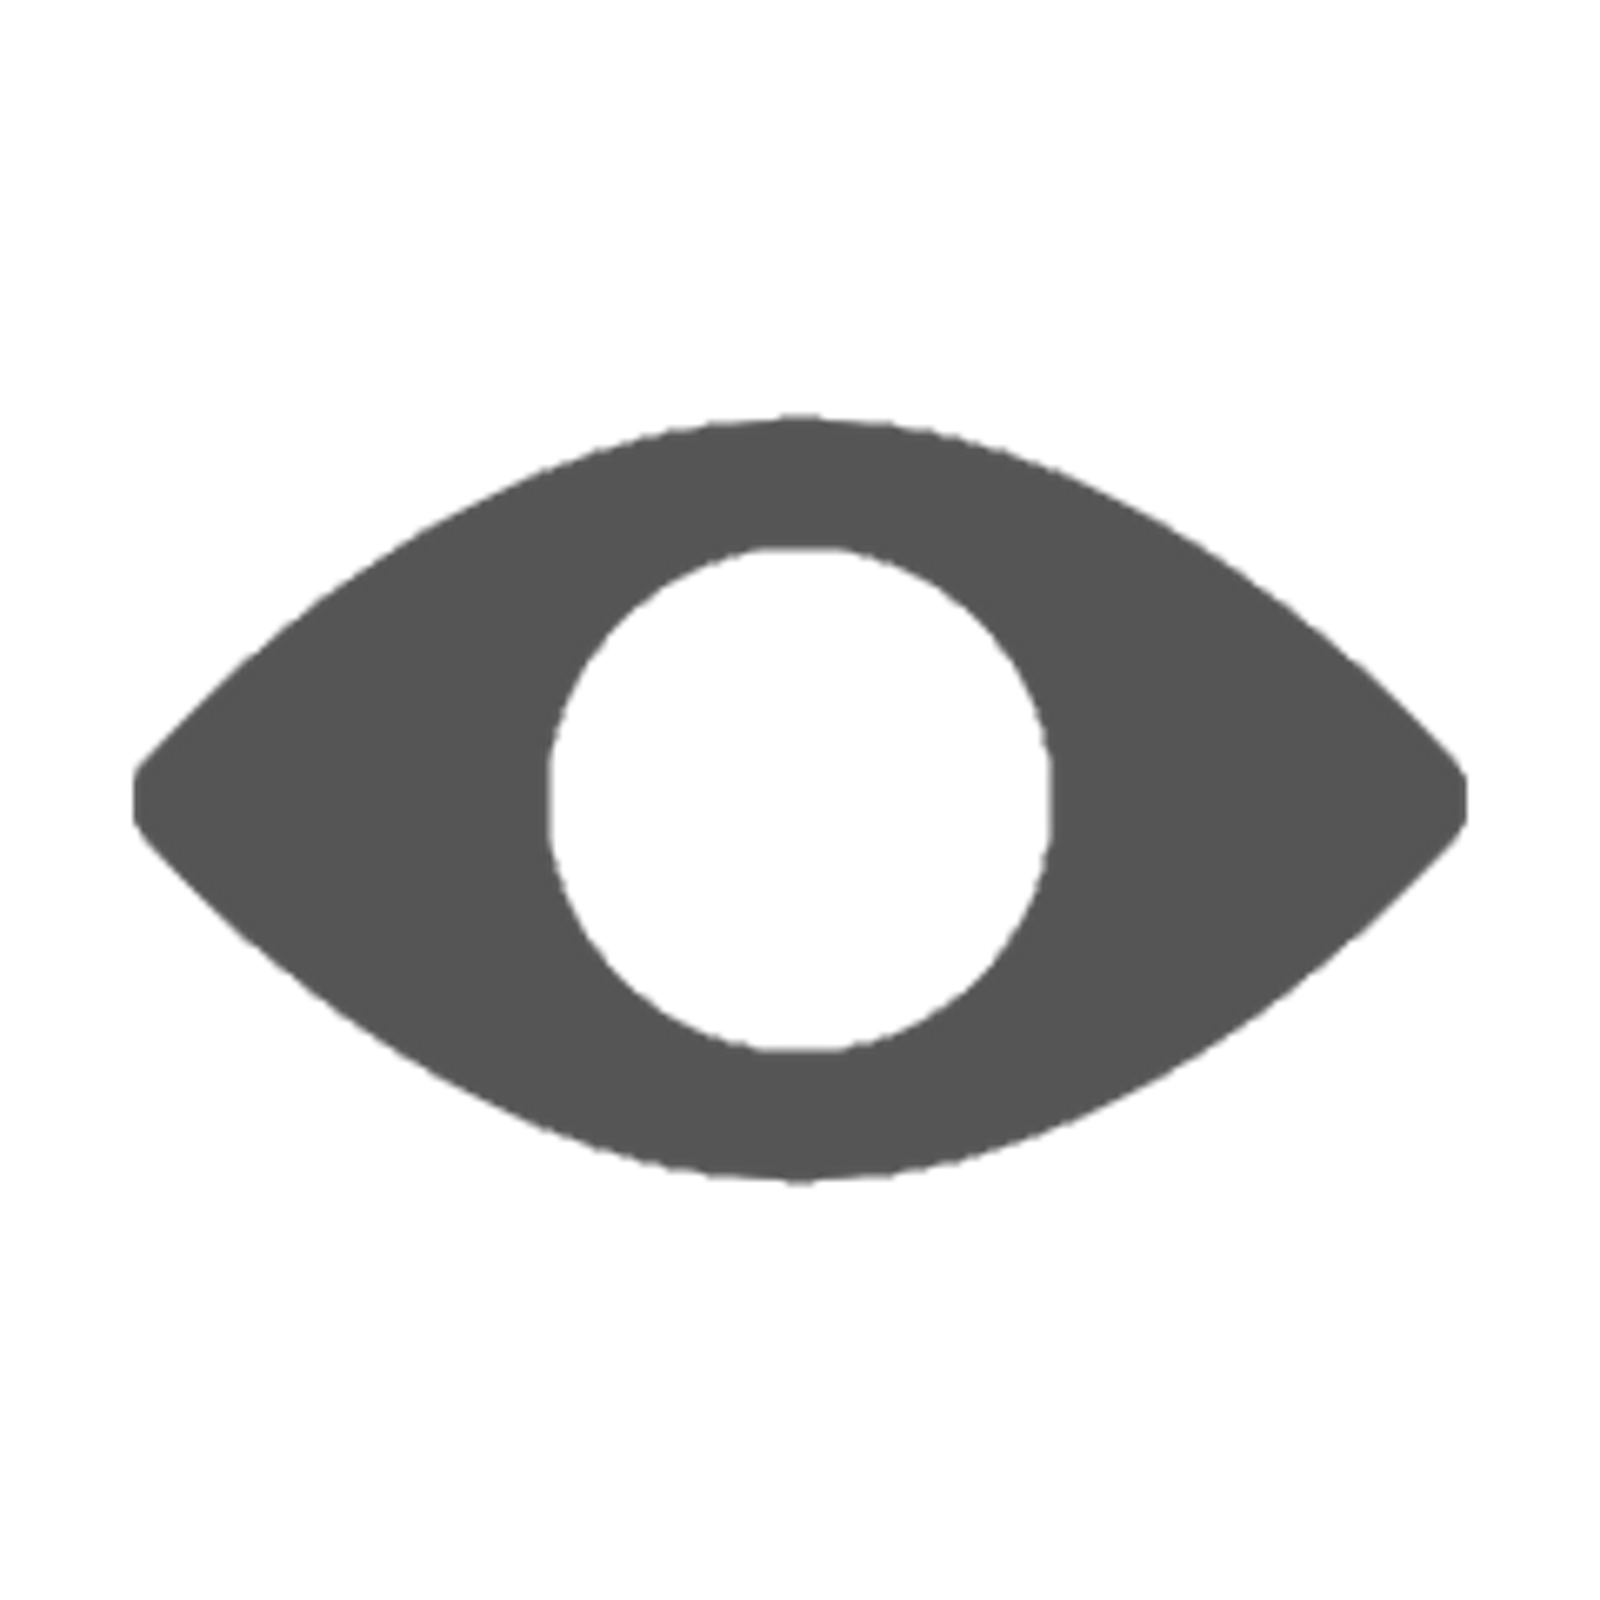
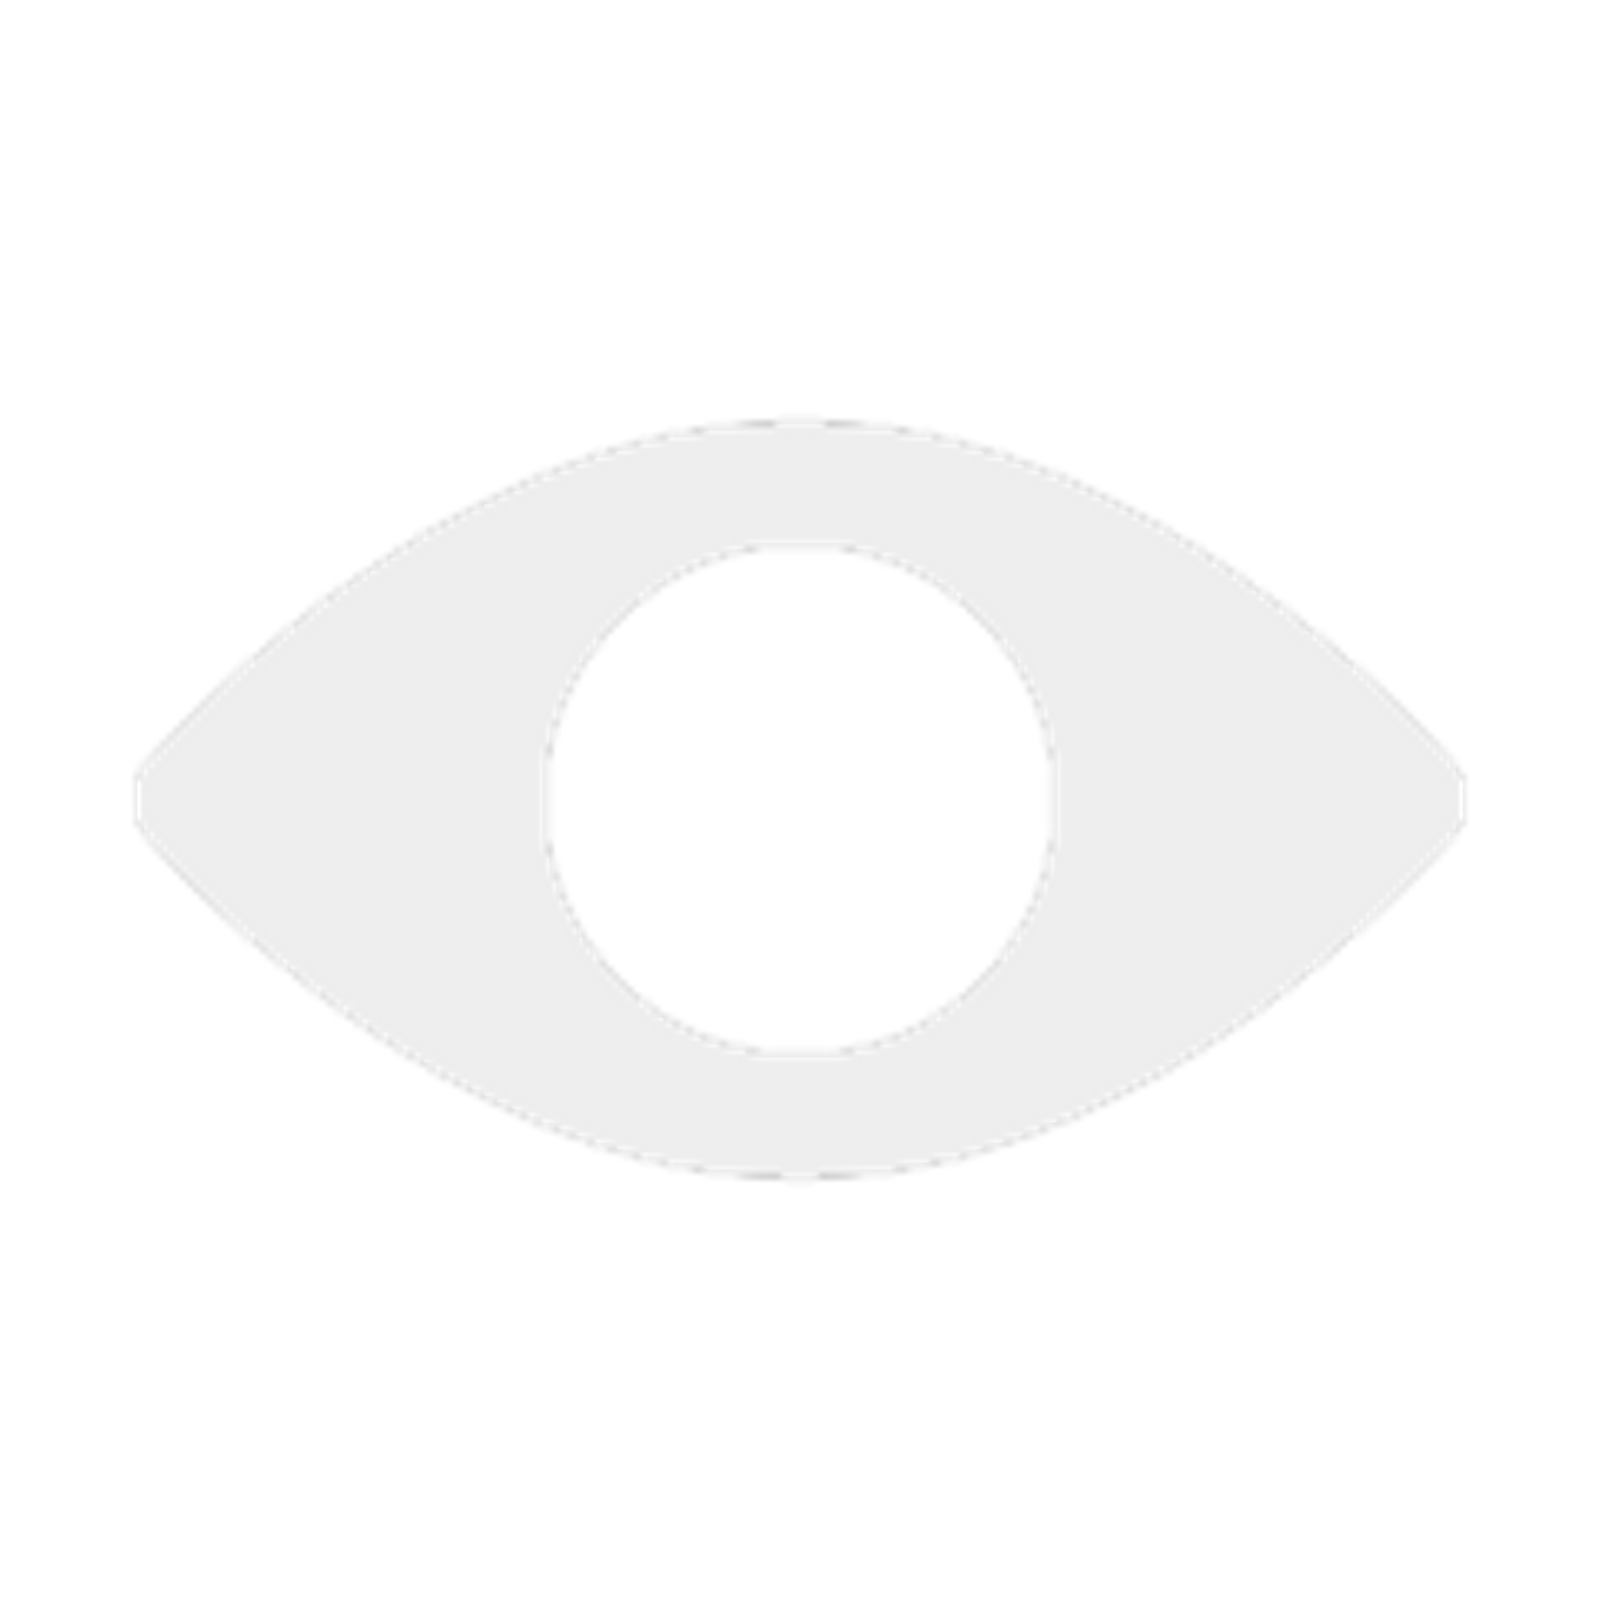
Updated values

Changed region(s): [[0.0625, 0.25, 0.9375, 0.75]]

diff --git a/splash.html b/splash.html
@@ -11,9 +11,9 @@
 </head>
 
 <script>
-    let bkgColor = '#555555';
-    let cirColor = '#3DC1D9';
-    let triColor = '#EEEEEE';
+    let bkgColor = '#EEEEEE';
+    let cirColor = '#66D3E4';
+    let triColor = '#3DC1D9';
     let growRate = 1;
     let eyeImg;
 
@@ -41,7 +41,7 @@
         triangle(width / 2, offsetY, 0, height + offsetY, width, height + offsetY);
         rect(0, height + offsetY, width, 2 * height + offsetY);
         //
-        var size = width * 0.6;
+        size = width * 0.5;
         image(eyeImg, (width - size) / 2, (height - size) / 2, size, size);
         growRate += 0.012;
     }

diff --git a/main.js b/main.js
@@ -23,7 +23,7 @@ function createWindow () {
 
   // if main window is ready to show, then destroy the splash window and show up the main window
   async function closeSplash() {
-    await sleep(0);
+    await sleep(3200);
     splash.destroy();
     mainWindow.show();
   };
